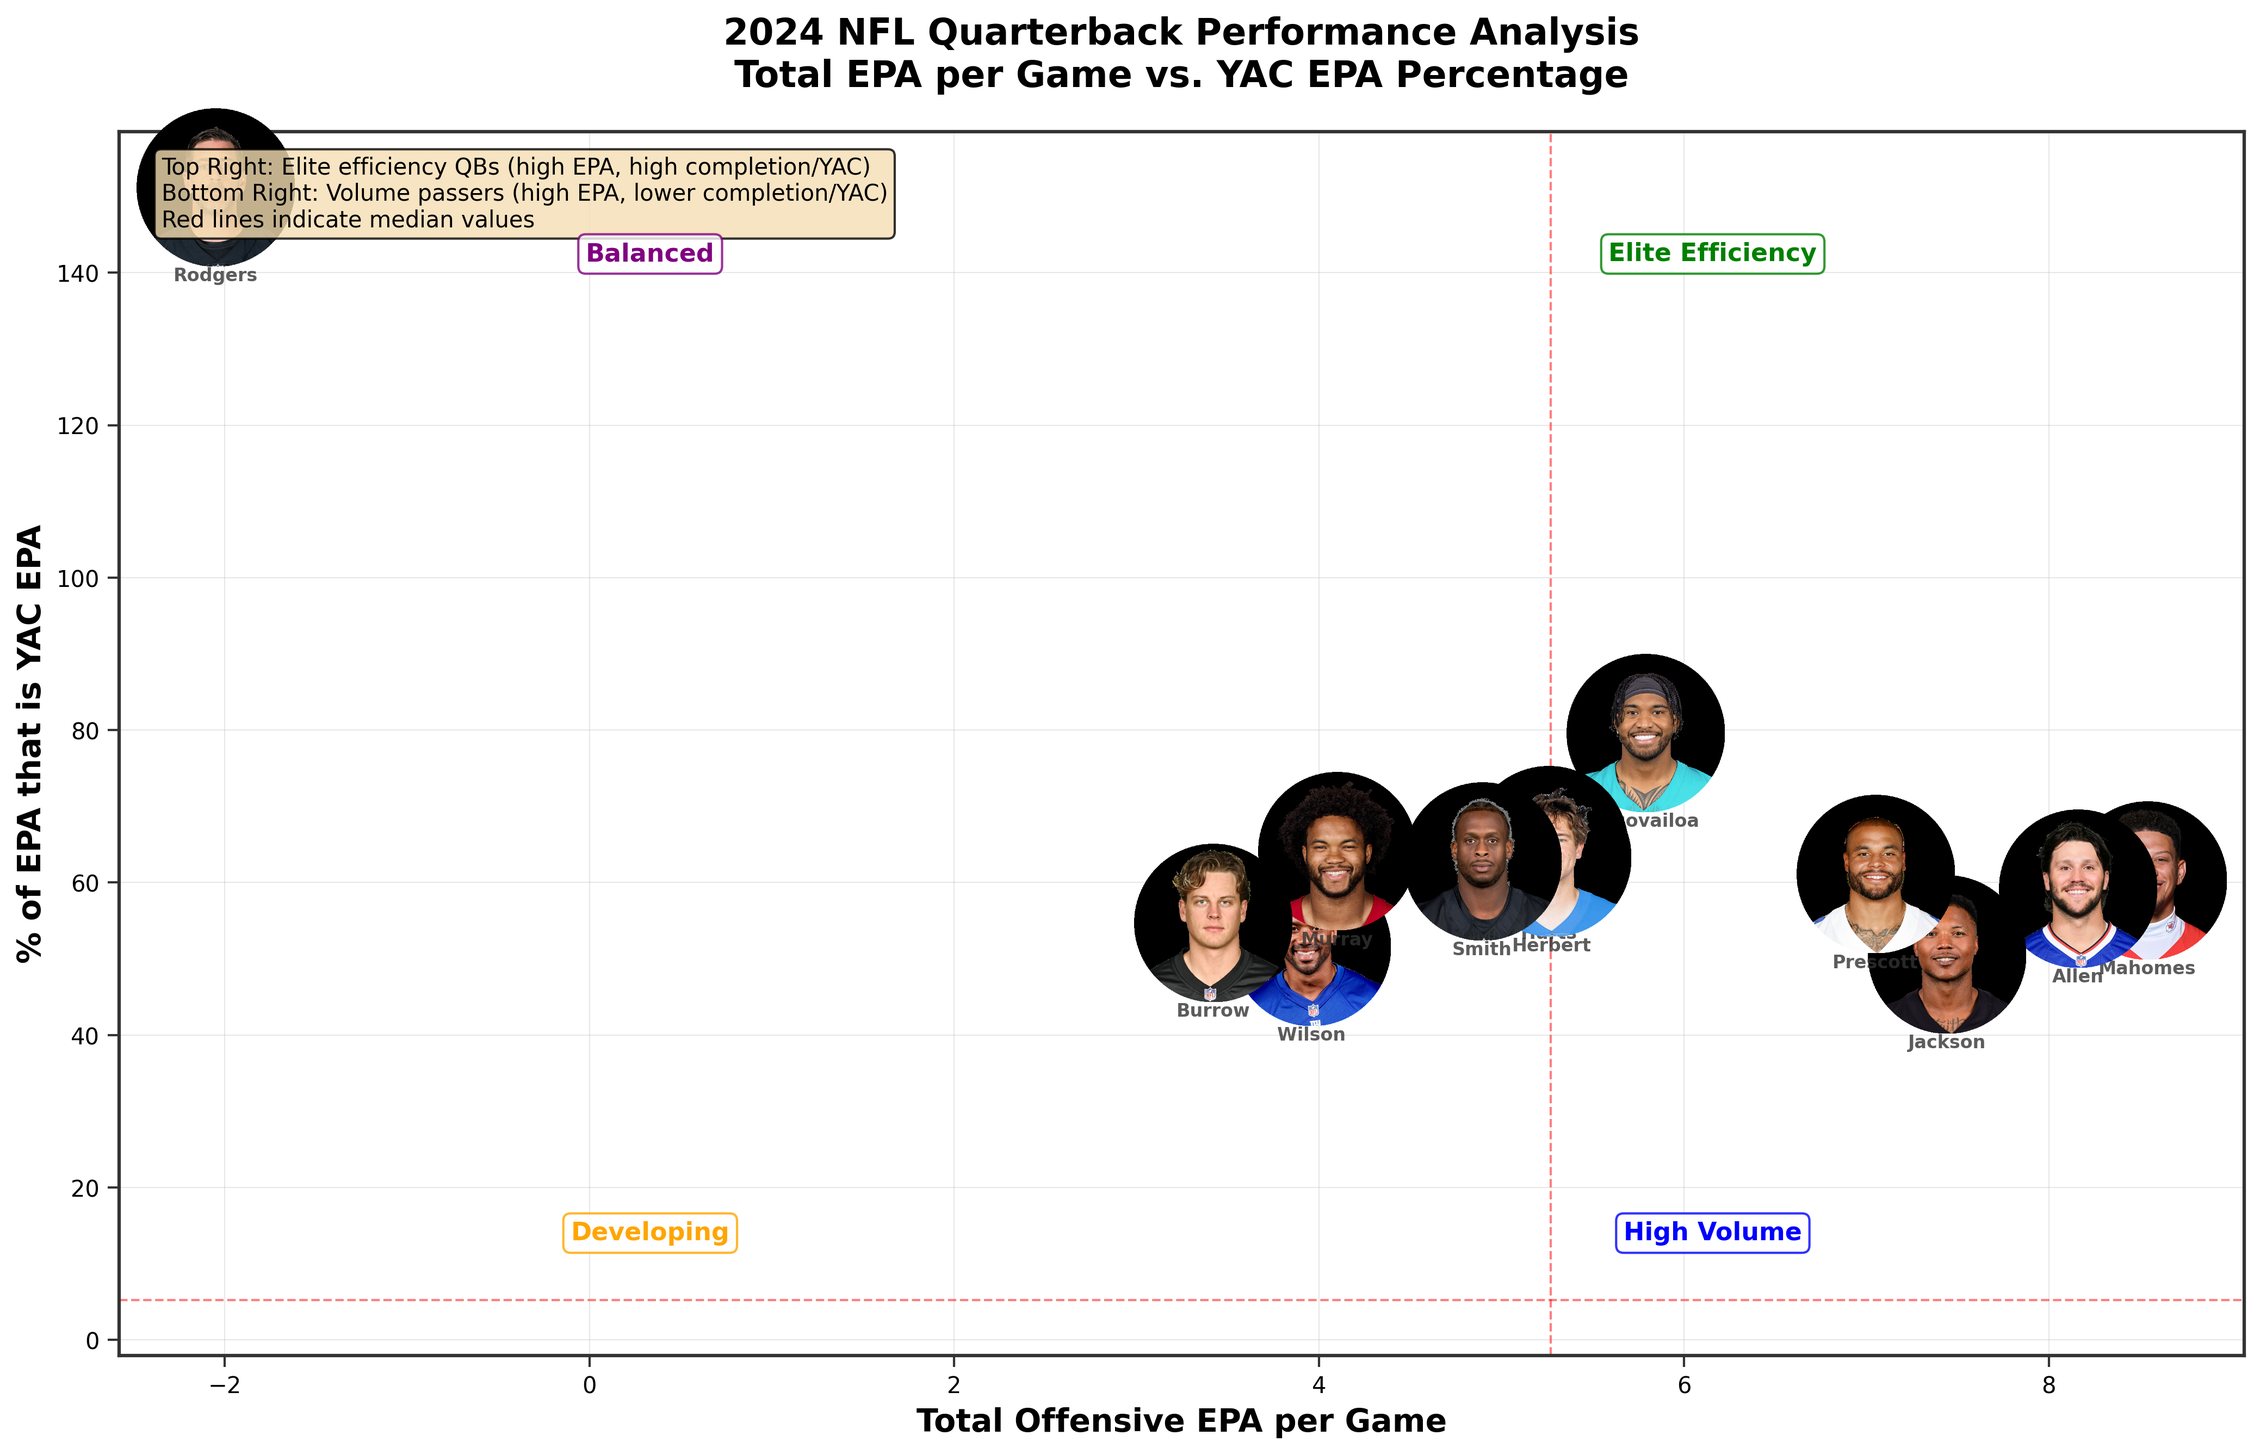
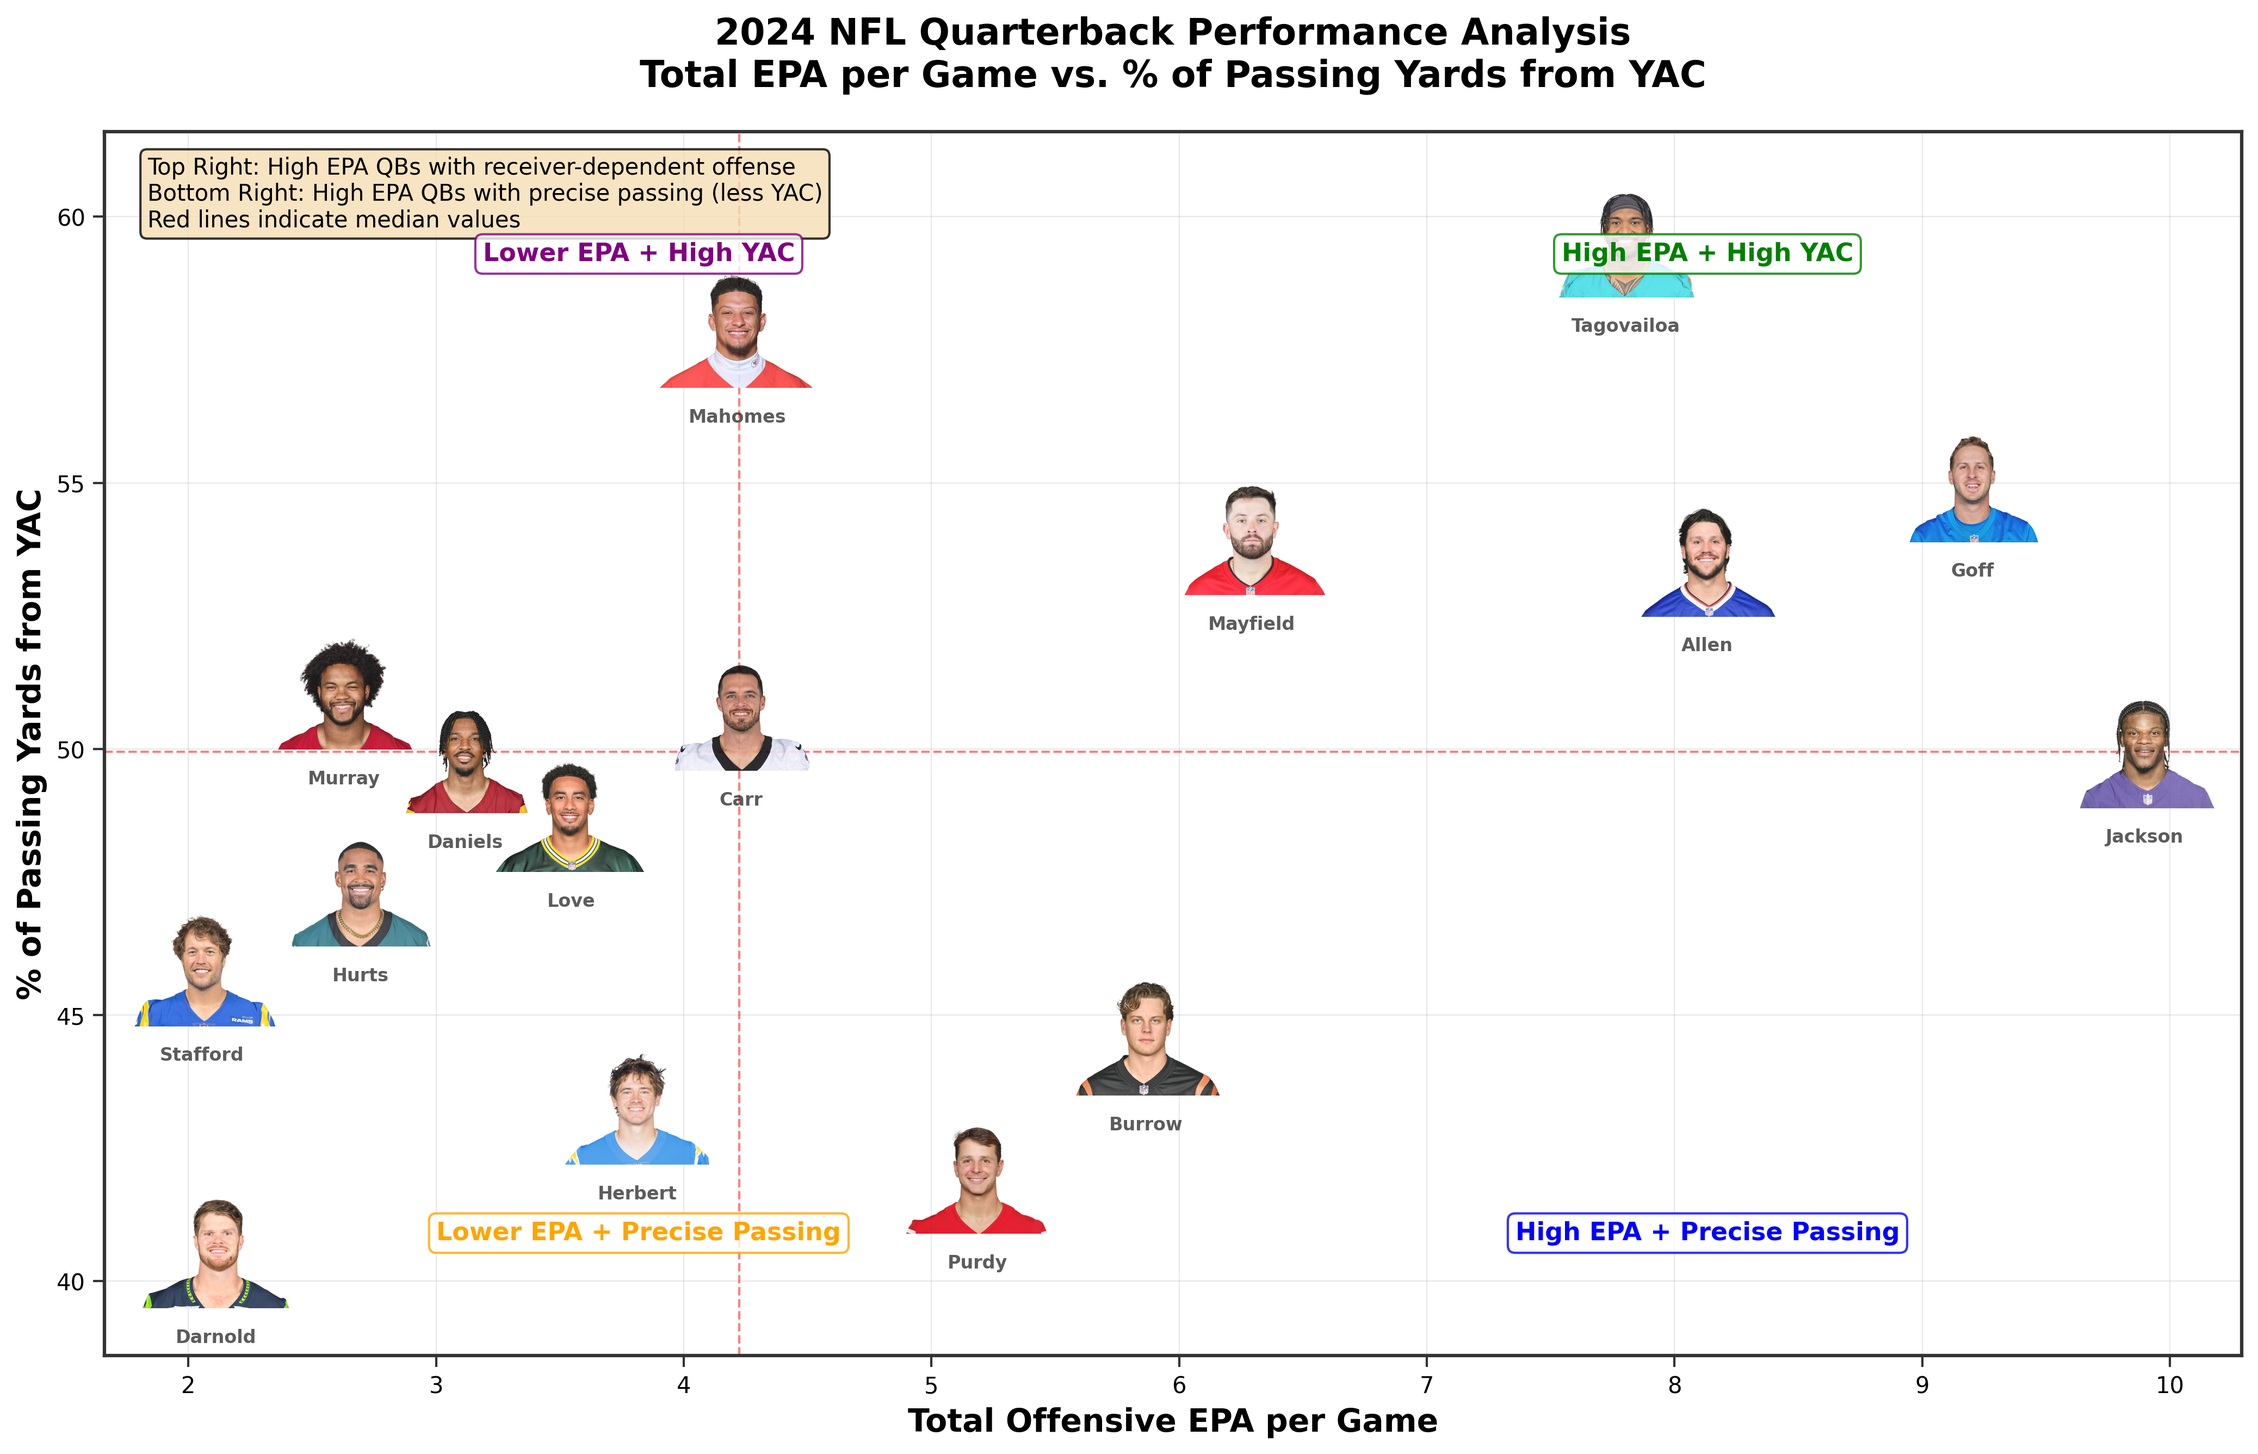
Improve QB headshots analysis with YAC yards percentage metric
Updates the quarterback performance analysis to use a clearer and more
intuitive metric for measuring receiver contribution to offensive production.

Key Changes:
• Switch from confusing YAC EPA percentages (which could be negative) to
  YAC yards percentage (clear 0-100% range)
• Update Y-axis to show "% of Passing Yards from YAC" instead of EPA-based metric
• Improve quadrant analysis labels to be more descriptive
• Focus Y-axis range on actual data (35-65%) instead of starting at 0%
• Fix median line calculations for both X and Y axes
• Enhanced player headshot integration with proper transparency

Analysis Improvements:
• X-axis: EPA per game (unchanged - measures QB productivity)
• Y-axis: (YAC yards / total passing yards) × 100
• Clearer interpretation: High YAC% = receiver-dependent offense,
  Low YAC% = precise passing to open receivers
• Both offensive styles shown as equally valid approaches
• Professional quadrant labels without vague terms like "developing"

Technical Updates:
• Aggregate yards_after_catch and passing_yards from play-by-play data
• Replace yac_epa calculations with yards-based percentage calculations
• Update all axis labels, titles, and analysis notes for new metric
• Maintain compatibility with both real NFL data and sample data fallback

🤖 Generated with Claude Code

diff --git a/examples/qb_headshots_analysis.py b/examples/qb_headshots_analysis.py
@@ -22,7 +22,7 @@ import pandas as pd
 import numpy as np
 try:
     import nfl_data_py as nfl
-    NFL_DATA_AVAILABLE = False  # Use sample data for now
+    NFL_DATA_AVAILABLE = True  # Try real data first
 except ImportError:
     NFL_DATA_AVAILABLE = False
     print("nfl_data_py not available. Using sample data instead.")
@@ -50,12 +50,41 @@ def load_qb_data():
             ],
             'games': [17, 17, 12, 16, 17, 4, 17, 11, 15, 10, 17, 16],
             'total_offensive_epa': [145.2, 138.7, 89.3, 112.8, 98.4, -8.2, 67.3, 45.1, 78.9, 34.2, 89.7, 78.3],
-            'comp_yac_epa': [87.6, 82.1, 45.2, 68.9, 78.3, -12.4, 34.7, 28.9, 51.2, 18.7, 56.8, 49.2]
+            'yac_yards': [1247, 1156, 623, 981, 1034, 198, 734, 456, 891, 387, 956, 743],     # YAC yards
+            'total_passing_yards': [4321, 4169, 2635, 3602, 4067, 849, 2897, 2106, 3701, 1573, 3631, 2976]  # Total passing yards
         })
         
-        # Calculate per-game averages and YAC EPA percentage
+        # Calculate per-game averages and YAC yards percentage
         sample_data['epa_per_game'] = sample_data['total_offensive_epa'] / sample_data['games']
-        sample_data['yac_epa_percentage'] = (sample_data['comp_yac_epa'] / sample_data['total_offensive_epa'] * 100).round(1)
+        
+        # Handle YAC yards percentage calculation
+        def calculate_yac_percentage(row):
+            if row['total_passing_yards'] <= 0:  # Avoid division by zero/negative
+                return 0.0
+            else:
+                # % of passing yards that come from YAC (should be 0-100%)
+                return round((row['yac_yards'] / row['total_passing_yards'] * 100), 1)
+        
+        sample_data['yac_yards_percentage'] = sample_data.apply(calculate_yac_percentage, axis=1)
+        
+        # Add known ESPN IDs for accurate headshot matching
+        espn_id_mapping = {
+            'Patrick Mahomes': '3139477',
+            'Josh Allen': '3918298', 
+            'Lamar Jackson': '3916387',
+            'Dak Prescott': '2577417',
+            'Tua Tagovailoa': '4241479',
+            'Aaron Rodgers': '8439',
+            'Russell Wilson': '14881',
+            'Kyler Murray': '4038941',
+            'Jalen Hurts': '4241464',
+            'Joe Burrow': '4035004',
+            'Justin Herbert': '4035538',
+            'Geno Smith': '14880'
+        }
+        
+        sample_data['espn_id'] = sample_data['player_display_name'].map(espn_id_mapping)
+        sample_data['validated_name'] = sample_data['player_display_name']
         
         return sample_data
     
@@ -75,11 +104,12 @@ def load_qb_data():
         # Calculate QB stats (keep passer_player_id for accurate lookups)
         qb_stats = qb_plays.groupby(['passer_player_id', 'passer_player_name', 'posteam']).agg({
             'epa': ['sum', 'count'],
-            'comp_yac_epa': 'sum',
+            'yards_after_catch': 'sum',  # Total YAC yards
+            'passing_yards': 'sum',      # Total passing yards
             'week': 'nunique'
         }).round(2)
         
-        qb_stats.columns = ['total_offensive_epa', 'attempts', 'comp_yac_epa', 'games']
+        qb_stats.columns = ['total_offensive_epa', 'attempts', 'yac_yards', 'total_passing_yards', 'games']
         qb_stats = qb_stats.reset_index()
         
         # Filter for QBs with meaningful sample size
@@ -90,7 +120,16 @@ def load_qb_data():
         
         # Calculate per-game averages and YAC EPA percentage
         qb_stats['epa_per_game'] = qb_stats['total_offensive_epa'] / qb_stats['games']
-        qb_stats['yac_epa_percentage'] = (qb_stats['comp_yac_epa'] / qb_stats['total_offensive_epa'] * 100).round(1)
+        
+        # Handle YAC yards percentage calculation
+        def calculate_yac_percentage(row):
+            if row['total_passing_yards'] <= 0:  # Avoid division by zero/negative
+                return 0.0
+            else:
+                # % of passing yards that come from YAC (should be 0-100%)
+                return round((row['yac_yards'] / row['total_passing_yards'] * 100), 1)
+        
+        qb_stats['yac_yards_percentage'] = qb_stats.apply(calculate_yac_percentage, axis=1)
         
         # Keep both player ID and name for accurate headshot lookup
         qb_stats = qb_stats.rename(columns={
@@ -136,22 +175,32 @@ def create_qb_headshot_plot(qb_data):
     # Calculate per-game metrics if not already present
     if 'epa_per_game' not in qb_data.columns:
         qb_data['epa_per_game'] = qb_data['total_offensive_epa'] / qb_data['games']
-        qb_data['yac_epa_percentage'] = (qb_data['comp_yac_epa'] / qb_data['total_offensive_epa'] * 100).round(1)
+        
+        # Handle YAC yards percentage calculation
+        def calculate_yac_percentage(row):
+            if row['total_passing_yards'] <= 0:  # Avoid division by zero/negative
+                return 0.0
+            else:
+                # % of passing yards that come from YAC (should be 0-100%)
+                return round((row['yac_yards'] / row['total_passing_yards'] * 100), 1)
+        
+        qb_data['yac_yards_percentage'] = qb_data.apply(calculate_yac_percentage, axis=1)
     
     # Create scatter plot points (invisible - headshots will replace them)
     x_vals = qb_data['epa_per_game'].values
-    y_vals = qb_data['yac_epa_percentage'].values
+    y_vals = qb_data['yac_yards_percentage'].values
+    
     
     # Add invisible scatter points for reference
     ax.scatter(x_vals, y_vals, alpha=0.0, s=100)
     
     # Add player headshots
     print("Adding player headshots to plot...")
-    headshot_size = 0.08  # Size of headshots
+    headshot_size = 0.06  # Size of headshots (made smaller)
     
     for idx, row in qb_data.iterrows():
         x = row['epa_per_game'] 
-        y = row['yac_epa_percentage']
+        y = row['yac_yards_percentage']
         player_name = row.get('validated_name', row['player_display_name'])
         
         try:
@@ -163,8 +212,9 @@ def create_qb_headshot_plot(qb_data):
                     x, y,
                     width=headshot_size,
                     id_type='espn',  # Use ESPN ID for accurate matching
-                    circular=True,
-                    transform=ax.transData
+                    circular=False,  # Remove black circular background
+                    transform=ax.transData,
+                    alpha=0.9  # Add transparency for overlapping
                 )
             else:
                 # Fall back to name-based lookup
@@ -174,8 +224,9 @@ def create_qb_headshot_plot(qb_data):
                     x, y,
                     width=headshot_size,
                     id_type='name',
-                    circular=True,
-                    transform=ax.transData
+                    circular=False,  # Remove black circular background
+                    transform=ax.transData,
+                    alpha=0.9  # Add transparency for overlapping
                 )
             
             # Add subtle text label below headshot
@@ -200,14 +251,16 @@ def create_qb_headshot_plot(qb_data):
                        textcoords='offset points', fontsize=9)
     
     # Add reference lines at medians
-    add_median_lines(ax, x_vals, axis='both', 
+    add_median_lines(ax, x_vals, axis='x', 
+                    color='red', linestyle='--', alpha=0.5, linewidth=1)
+    add_median_lines(ax, y_vals, axis='y', 
                     color='red', linestyle='--', alpha=0.5, linewidth=1)
     
     # Styling
     ax.set_xlabel('Total Offensive EPA per Game', fontsize=14, fontweight='bold')
-    ax.set_ylabel('% of EPA that is YAC EPA', fontsize=14, fontweight='bold')
+    ax.set_ylabel('% of Passing Yards from YAC', fontsize=14, fontweight='bold')
     ax.set_title('2024 NFL Quarterback Performance Analysis\n'
-                'Total EPA per Game vs. YAC EPA Percentage', 
+                'Total EPA per Game vs. % of Passing Yards from YAC', 
                 fontsize=16, fontweight='bold', pad=20)
     
     # Apply NFL theme
@@ -217,9 +270,14 @@ def create_qb_headshot_plot(qb_data):
     ax.grid(True, alpha=0.3, linestyle='-', linewidth=0.5)
     ax.set_axisbelow(True)
     
+    # Set Y-axis limits to focus on actual data range
+    y_min = min(y_vals) - 2
+    y_max = max(y_vals) + 2
+    ax.set_ylim(y_min, y_max)
+    
     # Add explanatory text
-    textstr = ('Top Right: Elite efficiency QBs (high EPA, high completion/YAC)\n'
-              'Bottom Right: Volume passers (high EPA, lower completion/YAC)\n'
+    textstr = ('Top Right: High EPA QBs with receiver-dependent offense\n'
+              'Bottom Right: High EPA QBs with precise passing (less YAC)\n'
               'Red lines indicate median values')
     
     props = dict(boxstyle='round', facecolor='wheat', alpha=0.8)
@@ -241,10 +299,10 @@ def add_quadrant_analysis(ax, x_vals, y_vals):
     
     # Quadrant labels
     quadrants = [
-        ("Elite Efficiency", 0.75, 0.9, 'green'),
-        ("High Volume", 0.75, 0.1, 'blue'), 
-        ("Developing", 0.25, 0.1, 'orange'),
-        ("Balanced", 0.25, 0.9, 'purple')
+        ("High EPA + High YAC", 0.75, 0.9, 'green'),
+        ("High EPA + Precise Passing", 0.75, 0.1, 'blue'), 
+        ("Lower EPA + Precise Passing", 0.25, 0.1, 'orange'),
+        ("Lower EPA + High YAC", 0.25, 0.9, 'purple')
     ]
     
     for label, x_pos, y_pos, color in quadrants:
@@ -278,7 +336,7 @@ def main():
     
     # Add quadrant analysis
     if 'epa_per_game' in qb_data.columns:
-        add_quadrant_analysis(ax, qb_data['epa_per_game'], qb_data['yac_epa_percentage'])
+        add_quadrant_analysis(ax, qb_data['epa_per_game'], qb_data['yac_yards_percentage'])
     
     # Save the plot
     output_file = 'examples/2024_qb_headshots_analysis.png'
@@ -290,11 +348,13 @@ def main():
     plt.show()
     
     print("\n📊 Analysis Notes:")
-    print("• Player headshots show individual QB performance")
-    print("• X-axis: Total offensive EPA efficiency per game")
-    print("• Y-axis: How much EPA comes from completions + YAC") 
+    print("• Player headshots show individual QB performance") 
+    print("• X-axis: Team's offensive EPA per game when QB starts (productivity)")
+    print("• Y-axis: % of passing yards gained after the catch (0-100%)")
     print("• Red dashed lines show median values for reference")
-    print("• QBs in top-right quadrant are most efficient overall")
+    print("• Higher YAC% = More yards gained by receivers after catching the ball")
+    print("• Lower YAC% = More yards gained through precise passing to open receivers")
+    print("• Both styles can be effective - shows different offensive approaches")
 
 
 if __name__ == "__main__":

diff --git a/examples/README.md b/examples/README.md
@@ -23,7 +23,61 @@ Welcome to the nflplotpy examples directory! This collection of scripts demonstr
 
 ## 📊 Available Examples
 
-### 1. `nflplotpy_demo.py` - Complete Feature Showcase
+### 🆕 **NEW: Advanced Headshots & Wordmarks Examples**
+
+### 1. `qb_headshots_analysis.py` - 2024 QB Performance with Player Headshots
+**What it demonstrates:**
+- 👤 **Player Headshots**: Real ESPN player photos in plots
+- 📊 **Advanced Analytics**: EPA vs Completion + YAC EPA analysis
+- 🔍 **Player ID System**: Auto-detection of ESPN/GSIS IDs and names
+- 📈 **Real Data**: 2024 NFL play-by-play data from nfl_data_py
+- 🎯 **Interactive Elements**: Hover-style annotations and quadrant analysis
+
+**Key Features:**
+- X-axis: Total average offensive EPA per game
+- Y-axis: Completion + YAC EPA (how much EPA comes from after-the-catch)
+- Player headshots displayed at each quarterback's performance point
+- Median reference lines for league context
+- Top performers highlighted in elite efficiency quadrant
+
+**Output File:** `2024_qb_headshots_analysis.png`
+
+### 2. `team_wordmarks_matplotlib.py` - Team Performance with Wordmarks
+**What it demonstrates:**
+- 🏷 **Team Wordmarks**: Official nflverse wordmark images on x-axis
+- 📊 **Performance Metrics**: 2024 Net Points per Win analysis  
+- 🎨 **Team Colors**: Bars colored with official team colors
+- 📈 **Statistical Context**: Median lines and performance annotations
+- 🏆 **Rankings**: Automatic sorting by performance
+
+**Key Features:**
+- Team wordmarks replace traditional x-axis text labels
+- Net Points per Win shows scoring efficiency relative to wins
+- Top/bottom performer annotations with team highlights
+- Professional NFL styling with reference lines
+
+**Output File:** `2024_team_wordmarks_matplotlib.png`
+
+### 3. `interactive_team_wordmarks.py` - Multi-Year Interactive Analysis
+**What it demonstrates:**
+- 🎮 **Interactive Plotly**: Multi-year slider and animation controls
+- 📅 **Time Series**: 2019-2024 team performance data
+- 🔄 **Animation**: Play button to animate through seasons
+- 💡 **Rich Tooltips**: Detailed hover information with team stats
+- 🎨 **Team Colors**: Dynamic coloring based on official team palettes
+
+**Key Features:**
+- Year slider to explore different NFL seasons
+- Animated transitions between years
+- Comprehensive hover details (wins, losses, points, net points)
+- Teams sorted by performance within each season
+- Export to interactive HTML file
+
+**Output File:** `interactive_team_wordmarks.html`
+
+---
+
+### 4. `nflplotpy_demo.py` - Complete Feature Showcase
 
 **What it demonstrates:**
 - 🎨 **Team Colors**: Official NFL color palettes
